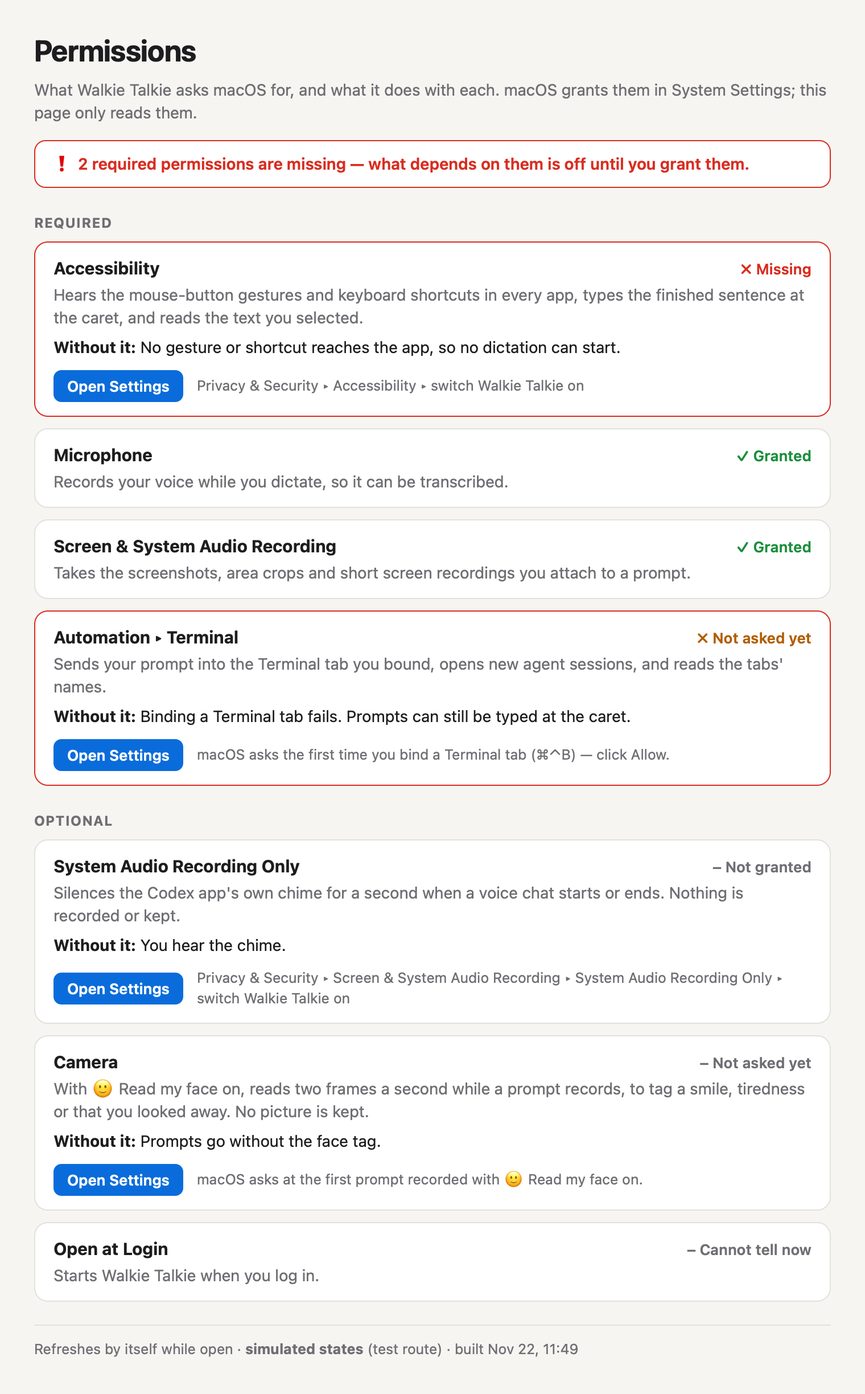
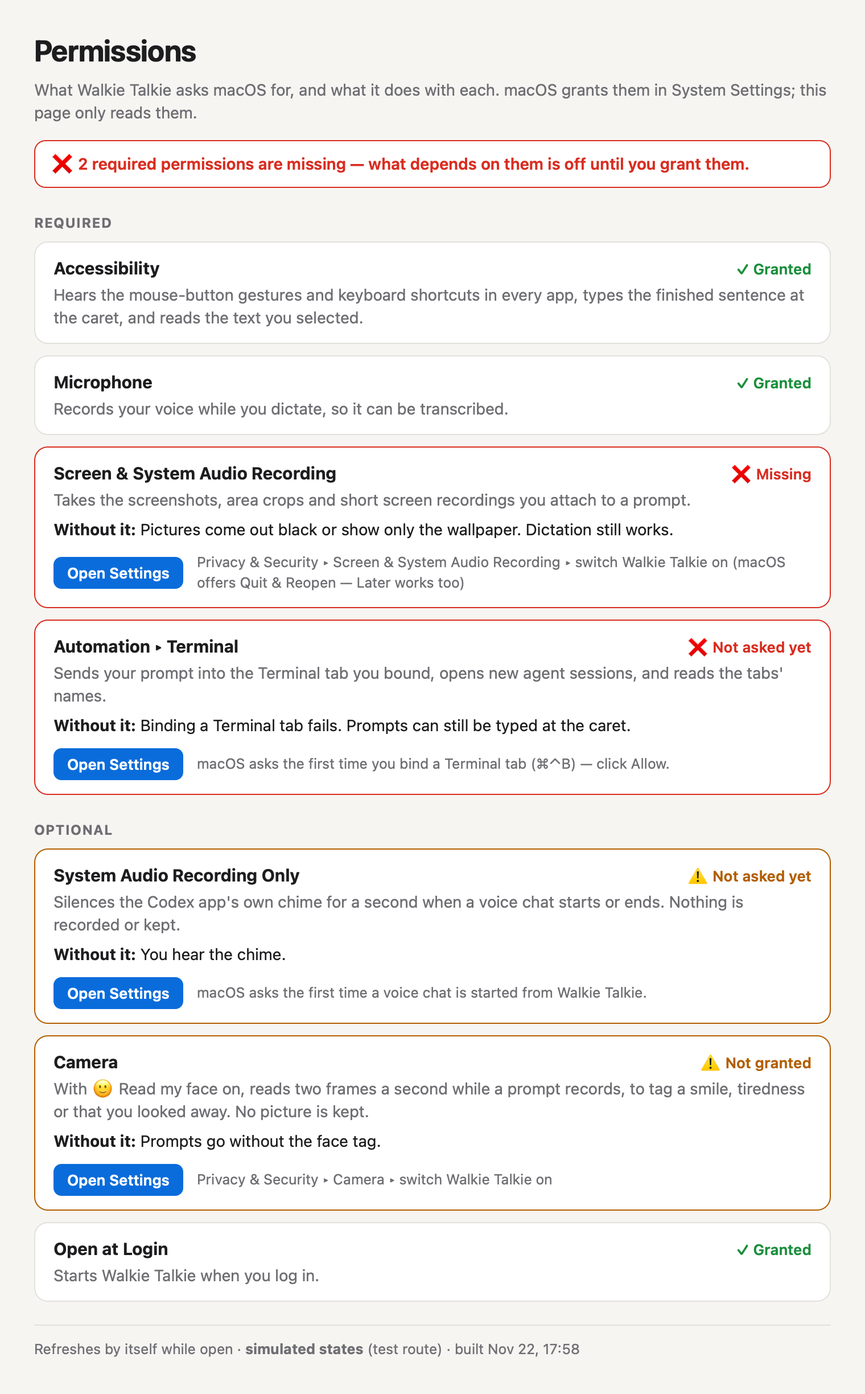
🔐 Permissions: ❌ for a required one that is missing, ⚠ for an optional one not granted
Victor, asked whether Screen Recording and Automation stay required: "arată un ❌ pentru astea 2,
un ⚠ pentru celelalte". The four required ones wear ❌ (page, banner, the row above Quit, the chip
hints — the ❗ is gone); the optional ones wear ⚠ on the page only, never in the menu; an optional
one whose feature is switched off (Camera with Read my face unticked) wears neither.

diff --git a/Sources/WalkieTalkie/Permissions.swift b/Sources/WalkieTalkie/Permissions.swift
@@ -38,7 +38,7 @@ enum Permissions {
         /// Cannot be told right now (Terminal is not running, an API is absent).
         case unknown
 
-        /// What the ❗ counts: everything that is known not to be granted.
+        /// What the ❌ counts: everything that is known not to be granted.
         var lacking: Bool { self == .missing || self == .notAsked }
     }
 
@@ -122,12 +122,52 @@ enum Permissions {
         readings.filter { entry($0.kind).required && $0.state.lacking }.count
     }
 
-    /// The row above Quit: today's `Built …` with everything granted.
+    /// **How a permission is shown: ❌ a required one that is missing, ⚠ an optional one
+    /// that is not granted** (2026-11-22, Victor, asked whether Screen Recording and
+    /// Automation stay required: *"arată un ❌ pentru astea 2, un ⚠ pentru celelalte"*).
+    /// The four required ones stay required. An optional one whose feature is switched
+    /// off in the app (`idle`) is neither: nobody is asking for it.
+    enum Mark: String {
+        case granted
+        /// ❌ — required and known not to be granted.
+        case missing
+        /// ⚠ — optional, not granted, and its feature is on.
+        case warning
+        /// Optional, not granted, its feature switched off: no mark.
+        case idle
+        /// Cannot be told right now.
+        case unknown
+    }
+
+    static func mark(_ reading: Reading, idle: Set<Kind>) -> Mark {
+        switch reading.state {
+        case .granted: return .granted
+        case .unknown: return .unknown
+        case .missing, .notAsked:
+            if entry(reading.kind).required { return .missing }
+            return idle.contains(reading.kind) ? .idle : .warning
+        }
+    }
+
+    /// How many optional permissions wear the ⚠. Never in the menu — the page only:
+    /// the camera is refused on purpose on many Macs, and Open at Login is a choice.
+    static func optionalOff(_ readings: [Reading], idle: Set<Kind>) -> Int {
+        readings.filter { mark($0, idle: idle) == .warning }.count
+    }
+
+    /// Why an idle permission is not needed, as the page says it.
+    static let idleNote: [Kind: String] = [.camera: "🙂 Read my face is off"]
+
+    /// The optional permissions whose feature is switched off in the app right now.
+    static func idleNow() -> Set<Kind> { FaceRead.enabled ? [] : [.camera] }
+
+    /// The row above Quit: today's `Built …` with everything granted. ❌ since
+    /// 2026-11-22 (❗ that morning); only the required ones ever change this row.
     static func rowTitle(missing: Int, build: String) -> String {
         switch missing {
         case ..<1: return "Built \(build)"
-        case 1: return "❗ 1 permission missing"
-        default: return "❗ \(missing) permissions missing"
+        case 1: return "❌ 1 permission missing"
+        default: return "❌ \(missing) permissions missing"
         }
     }
 
@@ -334,12 +374,12 @@ enum Permissions {
 
     /// What the chip says when a feature finds its permission missing.
     static func hintText(_ kind: Kind) -> String {
-        "❗ \(entry(kind).title) permission missing — the menu's ❗ row says why"
+        "❌ \(entry(kind).title) permission missing — the menu's ❌ row says why"
     }
 
     /// The one line at launch for everything refused.
     static func launchHint(_ titles: [String]) -> String {
-        "❗ Missing permission\(titles.count == 1 ? "" : "s"): \(titles.joined(separator: ", ")) — the menu's ❗ row says why"
+        "❌ Missing permission\(titles.count == 1 ? "" : "s"): \(titles.joined(separator: ", ")) — the menu's ❌ row says why"
     }
 
     /// Wired by `AppDelegate`: flash the hint. Called on main.
@@ -382,13 +422,16 @@ enum Permissions {
         let fakes = faked
         let real = Dictionary(uniqueKeysWithValues: catalogue.map { ($0.kind, read($0.kind)) })
         let missing = missingRequired(all)
+        let idle = idleNow()
         return ["permissions": all.map { r -> [String: Any] in
                     let e = entry(r.kind)
                     return ["id": r.kind.rawValue, "title": e.title, "required": e.required,
                             "state": r.state.rawValue, "real": real[r.kind]!.rawValue,
+                            "mark": mark(r, idle: idle).rawValue,
                             "faked": fakes[r.kind] != nil, "settings": e.settings]
                 },
                 "missingRequired": missing,
+                "optionalOff": optionalOff(all, idle: idle),
                 "row": rowTitle(missing: missing, build: StatusItem.buildStamp),
                 "page": PermissionsPage.describe()]
     }
@@ -406,6 +449,7 @@ enum PermissionsPage {
     private static var loaded = false
     private static var timer: Timer?
     private static var shown: [Permissions.Reading] = []
+    private static var shownIdle: Set<Permissions.Kind> = []
 
     /// Up, or brought forward, without activating the app.
     static func show() {
@@ -469,10 +513,12 @@ enum PermissionsPage {
     static func refresh(force: Bool = false) {
         guard let w = web, force || panel?.isVisible == true else { return }
         let now = Permissions.readings()
-        guard force || now != shown else { return }
+        let idle = Permissions.idleNow()
+        guard force || now != shown || idle != shownIdle else { return }
         shown = now
+        shownIdle = idle
         loaded = false
-        w.loadHTMLString(html(now, build: StatusItem.buildStamp), baseURL: nil)
+        w.loadHTMLString(html(now, build: StatusItem.buildStamp, idle: idle), baseURL: nil)
     }
 
     static func describe() -> [String: Any] {
@@ -504,23 +550,25 @@ enum PermissionsPage {
             .replacingOccurrences(of: ">", with: "&gt;").replacingOccurrences(of: "\"", with: "&quot;")
     }
 
-    /// An optional one that is not granted is a fact, not an alarm: grey, no red.
-    private static func badge(_ state: Permissions.State, required: Bool) -> String {
-        if !required, state.lacking {
-            return "<span class=\"badge dim\">– \(state == .notAsked ? "Not asked yet" : "Not granted")</span>"
-        }
-        switch state {
+    /// ❌ red for a required one that is missing, ⚠ amber for an optional one not granted
+    /// (2026-11-22; optional ones were grey `– Not granted` that morning), nothing for an
+    /// optional one whose feature is off.
+    private static func badge(_ r: Permissions.Reading, _ mark: Permissions.Mark) -> String {
+        let notAsked = r.state == .notAsked
+        switch mark {
         case .granted: return "<span class=\"badge ok\">✓ Granted</span>"
-        case .missing: return "<span class=\"badge no\">✗ Missing</span>"
-        case .notAsked: return "<span class=\"badge ask\">✗ Not asked yet</span>"
+        case .missing: return "<span class=\"badge no\">❌ \(notAsked ? "Not asked yet" : "Missing")</span>"
+        case .warning: return "<span class=\"badge warn\">⚠ \(notAsked ? "Not asked yet" : "Not granted")</span>"
+        case .idle: return "<span class=\"badge dim\">– Not needed: \(esc(Permissions.idleNote[r.kind] ?? "its feature is off"))</span>"
         case .unknown: return "<span class=\"badge dim\">– Cannot tell now</span>"
         }
     }
 
-    private static func row(_ r: Permissions.Reading) -> String {
+    private static func row(_ r: Permissions.Reading, idle: Set<Permissions.Kind>) -> String {
         let e = Permissions.entry(r.kind)
+        let mark = Permissions.mark(r, idle: idle)
         var more = ""
-        if r.state.lacking {
+        if mark == .missing || mark == .warning {
             let hint = r.state == .notAsked ? (e.notAskedHint ?? e.path) : e.path
             more = """
             <p class="without"><b>Without it:</b> \(esc(e.without))</p>
@@ -530,23 +578,27 @@ enum PermissionsPage {
             more = "<p class=\"without\">Terminal is not running, so macOS cannot say. Open Terminal and this row updates.</p>"
         }
         return """
-        <div class="row \(e.required ? r.state.rawValue : "optional")" id="\(r.kind.rawValue)">
-          <div class="head"><h3>\(esc(e.title))</h3>\(badge(r.state, required: e.required))</div>
+        <div class="row \(mark.rawValue)" id="\(r.kind.rawValue)">
+          <div class="head"><h3>\(esc(e.title))</h3>\(badge(r, mark))</div>
           <p class="why">\(esc(e.why))</p>\(more)
         </div>
         """
     }
 
-    static func html(_ readings: [Permissions.Reading], build: String) -> String {
+    /// `idle`: the optional permissions whose feature is off (`Permissions.idleNow`).
+    static func html(_ readings: [Permissions.Reading], build: String, idle: Set<Permissions.Kind> = []) -> String {
         let missing = Permissions.missingRequired(readings)
+        let off = Permissions.optionalOff(readings, idle: idle)
+        // The optional ones are said quietly, and only when nothing required is missing.
+        let quiet = off == 0 ? "" : " <span class=\"quiet\">⚠ \(off) optional \(off == 1 ? "one is" : "ones are") off.</span>"
         let summary: String
         switch missing {
-        case 0: summary = "<p class=\"summary good\">✓ Every required permission is granted.</p>"
-        case 1: summary = "<p class=\"summary bad\">❗ 1 required permission is missing — what depends on it is off until you grant it.</p>"
-        default: summary = "<p class=\"summary bad\">❗ \(missing) required permissions are missing — what depends on them is off until you grant them.</p>"
+        case 0: summary = "<p class=\"summary good\">✓ Every required permission is granted.\(quiet)</p>"
+        case 1: summary = "<p class=\"summary bad\">❌ 1 required permission is missing — what depends on it is off until you grant it.</p>"
+        default: summary = "<p class=\"summary bad\">❌ \(missing) required permissions are missing — what depends on them is off until you grant them.</p>"
         }
         func group(_ title: String, _ required: Bool) -> String {
-            let rows = readings.filter { Permissions.entry($0.kind).required == required }.map(row).joined()
+            let rows = readings.filter { Permissions.entry($0.kind).required == required }.map { row($0, idle: idle) }.joined()
             return rows.isEmpty ? "" : "<h2>\(title)</h2>\(rows)"
         }
         let simulated = readings.contains { $0.faked } ? " · <b>simulated states</b> (test route)" : ""
@@ -582,10 +634,12 @@ enum PermissionsPage {
     .summary.bad { border-color:var(--red); color:var(--red); }
     .summary.good { color:var(--green); }
     .row { background:var(--card); border:1px solid var(--line); border-radius:12px; padding:12px 16px; margin-bottom:10px; }
-    .row.missing, .row.not-asked { border-color:var(--red); }
+    .row.missing { border-color:var(--red); }
+    .row.warning { border-color:var(--amber); }
+    .summary .quiet { color:var(--amber); font-weight:500; margin-left:6px; }
     .head { display:flex; align-items:baseline; justify-content:space-between; gap:12px; margin-bottom:3px; }
     .badge { font-weight:600; font-size:13px; white-space:nowrap; }
-    .ok { color:var(--green); } .no { color:var(--red); } .ask { color:var(--amber); } .dim { color:var(--mute); }
+    .ok { color:var(--green); } .no { color:var(--red); } .warn { color:var(--amber); } .dim { color:var(--mute); }
     .why { color:var(--mute); }
     .without { margin-top:6px; }
     .fix { display:flex; align-items:center; gap:12px; margin-top:10px; }
@@ -650,7 +704,7 @@ enum PermissionsPage {
     /// ordered in, so nothing reaches a screen. Main thread; `done` on main.
     static func png(_ readings: [Permissions.Reading], to path: String, width: CGFloat = 760,
                     dark: Bool = false, done: @escaping (Bool) -> Void) {
-        shoots.append(Shoot(html: html(readings, build: StatusItem.buildStamp), width: width, dark: dark,
+        shoots.append(Shoot(html: html(readings, build: StatusItem.buildStamp, idle: Permissions.idleNow()), width: width, dark: dark,
                             path: path, done: done))
     }
 

diff --git a/Tests/WalkieTalkieTests/PermissionsTests.swift b/Tests/WalkieTalkieTests/PermissionsTests.swift
@@ -1,7 +1,7 @@
 import XCTest
 @testable import WalkieTalkie
 
-/// The permissions' pure parts (2026-11-22): what the ❗ counts, the row's
+/// The permissions' pure parts (2026-11-22): what the ❌ counts, the row's
 /// title, the two status codes read, the fakes, and what the page says.
 final class PermissionsTests: XCTestCase {
 
@@ -12,15 +12,15 @@ final class PermissionsTests: XCTestCase {
     func testOnlyRequiredOnesThatAreKnownLackingCount() {
         XCTAssertEqual(Permissions.missingRequired(readings([:])), 0)
         XCTAssertEqual(Permissions.missingRequired(readings([.accessibility: .missing, .automationTerminal: .notAsked])), 2)
-        // Optional ones never raise the ❗; neither does an answer nobody could get.
+        // Optional ones never raise the ❌; neither does an answer nobody could get.
         XCTAssertEqual(Permissions.missingRequired(readings([.camera: .missing, .systemAudio: .notAsked,
                                                              .loginItem: .missing, .automationTerminal: .unknown])), 0)
     }
 
     func testTheRowIsTheBuildStampUntilSomethingIsMissing() {
         XCTAssertEqual(Permissions.rowTitle(missing: 0, build: "Nov 22, 10:12"), "Built Nov 22, 10:12")
-        XCTAssertEqual(Permissions.rowTitle(missing: 1, build: "x"), "❗ 1 permission missing")
-        XCTAssertEqual(Permissions.rowTitle(missing: 3, build: "x"), "❗ 3 permissions missing")
+        XCTAssertEqual(Permissions.rowTitle(missing: 1, build: "x"), "❌ 1 permission missing")
+        XCTAssertEqual(Permissions.rowTitle(missing: 3, build: "x"), "❌ 3 permissions missing")
     }
 
     func testStatusCodes() {
@@ -47,9 +47,9 @@ final class PermissionsTests: XCTestCase {
         XCTAssertTrue(Permissions.hintDue(last: nil, now: t0, every: 60))
         XCTAssertFalse(Permissions.hintDue(last: t0, now: t0.addingTimeInterval(59), every: 60))
         XCTAssertTrue(Permissions.hintDue(last: t0, now: t0.addingTimeInterval(60), every: 60))
-        XCTAssertEqual(Permissions.hintText(.microphone), "❗ Microphone permission missing — the menu's ❗ row says why")
-        XCTAssertEqual(Permissions.launchHint(["Accessibility"]), "❗ Missing permission: Accessibility — the menu's ❗ row says why")
-        XCTAssertTrue(Permissions.launchHint(["Accessibility", "Microphone"]).hasPrefix("❗ Missing permissions: Accessibility, Microphone"))
+        XCTAssertEqual(Permissions.hintText(.microphone), "❌ Microphone permission missing — the menu's ❌ row says why")
+        XCTAssertEqual(Permissions.launchHint(["Accessibility"]), "❌ Missing permission: Accessibility — the menu's ❌ row says why")
+        XCTAssertTrue(Permissions.launchHint(["Accessibility", "Microphone"]).hasPrefix("❌ Missing permissions: Accessibility, Microphone"))
     }
 
     func testEveryEntryExplainsItselfAndLinksToSettings() {
@@ -65,8 +65,10 @@ final class PermissionsTests: XCTestCase {
 
     func testThePageOffersSettingsOnlyForWhatIsLacking() {
         let page = PermissionsPage.html(readings([.accessibility: .missing, .camera: .missing]), build: "Nov 22, 10:12")
-        XCTAssertTrue(page.contains("1 required permission is missing"))
+        XCTAssertTrue(page.contains("❌ 1 required permission is missing"))
         XCTAssertEqual(page.components(separatedBy: "Open Settings").count - 1, 2)
+        XCTAssertTrue(page.contains("❌ Missing"))
+        XCTAssertTrue(page.contains("⚠ Not granted"))
         XCTAssertTrue(page.contains("Privacy_Accessibility"))
         XCTAssertFalse(page.contains("Privacy_Microphone"))
         XCTAssertFalse(page.contains("simulated"))
@@ -74,5 +76,51 @@ final class PermissionsTests: XCTestCase {
         let fine = PermissionsPage.html(readings([:]), build: "b")
         XCTAssertTrue(fine.contains("Every required permission is granted"))
         XCTAssertFalse(fine.contains("Open Settings"))
+    }
+
+    /// 2026-11-22, Victor: *"arată un ❌ pentru astea 2, un ⚠ pentru celelalte"* — the four
+    /// required ones ❌, the optional ones ⚠, and nothing for one whose feature is off.
+    func testRequiredOnesAreMissingOptionalOnesAWarningIdleOnesNeither() {
+        func mark(_ kind: Permissions.Kind, _ state: Permissions.State, idle: Set<Permissions.Kind> = []) -> Permissions.Mark {
+            Permissions.mark(Permissions.Reading(kind: kind, state: state), idle: idle)
+        }
+        for kind in [Permissions.Kind.accessibility, .microphone, .screenRecording, .automationTerminal] {
+            XCTAssertEqual(mark(kind, .missing), .missing, kind.rawValue)
+            XCTAssertEqual(mark(kind, .notAsked), .missing, kind.rawValue)
+            XCTAssertEqual(mark(kind, .granted), .granted)
+        }
+        for kind in [Permissions.Kind.systemAudio, .camera, .loginItem] {
+            XCTAssertEqual(mark(kind, .missing), .warning, kind.rawValue)
+            XCTAssertEqual(mark(kind, .notAsked), .warning, kind.rawValue)
+        }
+        XCTAssertEqual(mark(.automationTerminal, .unknown), .unknown)
+        // 🙂 Read my face unticked: the camera is nobody's business.
+        XCTAssertEqual(mark(.camera, .missing, idle: [.camera]), .idle)
+        XCTAssertEqual(mark(.camera, .granted, idle: [.camera]), .granted)
+        // A required one is never idle, whatever the set says.
+        XCTAssertEqual(mark(.microphone, .missing, idle: [.microphone]), .missing)
+
+        let all = readings([.camera: .missing, .loginItem: .missing, .systemAudio: .notAsked])
+        XCTAssertEqual(Permissions.optionalOff(all, idle: []), 3)
+        XCTAssertEqual(Permissions.optionalOff(all, idle: [.camera]), 2)
+        XCTAssertEqual(Permissions.missingRequired(all), 0, "the menu row never moves for an optional one")
+    }
+
+    func testThePageSaysTheOptionalOnesQuietlyAndAnIdleOneNotAtAll() {
+        let states: [Permissions.Kind: Permissions.State] = [.camera: .missing, .loginItem: .missing]
+        let page = PermissionsPage.html(readings(states), build: "b")
+        XCTAssertTrue(page.contains("Every required permission is granted"))
+        XCTAssertTrue(page.contains("⚠ 2 optional ones are off."))
+        XCTAssertFalse(page.contains("❌"))
+
+        let idle = PermissionsPage.html(readings(states), build: "b", idle: [.camera])
+        XCTAssertTrue(idle.contains("⚠ 1 optional one is off."))
+        XCTAssertTrue(idle.contains("Not needed: 🙂 Read my face is off"))
+        XCTAssertFalse(idle.contains("Privacy_Camera"), "no Open Settings for a permission nobody asks for")
+        XCTAssertEqual(idle.components(separatedBy: "Open Settings").count - 1, 1)
+
+        // With a required one missing the banner is about that alone.
+        let bad = PermissionsPage.html(readings([.microphone: .missing, .camera: .missing]), build: "b")
+        XCTAssertFalse(bad.contains("optional one"))
     }
 }

diff --git a/Sources/WalkieTalkie/StatusItem.swift b/Sources/WalkieTalkie/StatusItem.swift
@@ -2060,9 +2060,11 @@ final class StatusItem: NSObject, NSMenuDelegate {
         Permissions.refreshAutomation { [weak self] in self?.applyPermissionsRow() }
     }
 
-    /// **❗ on the row above Quit while a required permission is missing**
+    /// **❌ on the row above Quit while a required permission is missing**
     /// (2026-11-22, Victor: *"un semn de exclamare dacă n-ai toate permisiunile
-    /// date"*) — `❗ 2 permissions missing`, and the click opens `PermissionsPage`.
+    /// date"*, then *"arată un ❌ pentru astea 2, un ⚠ pentru celelalte"*) —
+    /// `❌ 2 permissions missing`, and the click opens `PermissionsPage`. The
+    /// optional ones' ⚠ lives on the page only: this row never nags for them.
     /// With everything granted it is the plain `Built …` readout it was. Read at
     /// menu open only; no check here can raise a system dialog (`Permissions`).
     private var permissionsMissing = 0

diff --git a/Sources/WalkieTalkie/AppDelegate.swift b/Sources/WalkieTalkie/AppDelegate.swift
@@ -14604,7 +14604,7 @@ extension AppDelegate {
     /// **A missing permission switches its feature off, says so once, and the
     /// feature comes back when the grant does — without a restart.**
     ///
-    /// - The chip names what is missing and points at the menu's ❗ row
+    /// - The chip names what is missing and points at the menu's ❌ row
     ///   (`Permissions.onHint`) — at launch one line for all of them, later one
     ///   per feature that ran into it (rate-limited in `Permissions.hint`).
     /// - **Accessibility is watched**: while it is missing, every 2 s (one call,

diff --git a/.claude/rules/desk-testing.md b/.claude/rules/desk-testing.md
@@ -57,7 +57,7 @@ prefer the local engine.
 | `POST /test/stop-wave {"x"?, "y"?, "capturable"?}` | the stop's wave alone, from the pointer or that global point; `capturable` lets a screenshot see it (2026-11-05); wipes nothing, the halo is wiped from `endDictation` (`WT_HALO_DEMO_WIPE` at a desk) |
 | `POST /test/edge-dust {"edge": "top"｜"right"｜"left" (the ⚡ question's marks, 2026-11-19)｜"bottom" (the caret's pins, 2026-11-22), "seconds"? (4), "sent"? (true), "capturable"?}` | the prompt's edge with no sentence behind it (2026-11-16, `EdgeDust.demo`), then the swell (`sent`) or the quiet end; answers `phase`, `frame` |
 | `POST /test/turn-cost {"transcript"?, "show"?, "amount"?, "rest"?, "x"?, "y"?, "capturable"?, "png"?, "state"?}` | **💸 the turn-cost float** (2026-11-19, `TurnCost`): `transcript` prices that file's last finished turn (`usd`, `subagentUSD`, `responses`, `model`, `seconds`, `text`) and shows nothing unless `show`; otherwise floats `amount`+`rest` from the pointer or x,y; `png` renders the pill to a file instead; `state` reads the floats up (`frame`, `alpha`, `faded`, `hovered`); `watch: "ttysNNN"` (+ `since`, epoch s) arms the real watcher on that tty and answers its `session` |
-| `GET /test/permissions` · `POST /test/permissions {"fake"?: {"<id>": "granted｜missing｜not-asked｜unknown"}｜null, "png"?, "dark"?, "show"?}` | **the permissions, read and faked** (2026-11-22, `Permissions`): answers `permissions[{id, title, required, state, real, faked, settings}]` (ids `accessibility`, `microphone`, `screen-recording`, `automation-terminal`, `system-audio`, `camera`, `login-item`), `missingRequired`, `row` (the title of the row above Quit) and `page {shown, loaded, polling}`. `fake` lays states over the real ones for the row and the page — **nothing is revoked**, never written, gone at relaunch; `fake: null` clears. `png: <path>` draws the page to a file in a window that is never ordered in (`dark: true` = dark theme); `show: true｜false` puts the real window up / takes it down. No check prompts. Without the app: `WT_SHOOT_PERMISSIONS=/tmp/p.png WT_PERMISSIONS_FAKE=accessibility:missing,camera:not-asked [WT_PERMISSIONS_DARK=1] .build/debug/WalkieTalkie` |
+| `GET /test/permissions` · `POST /test/permissions {"fake"?: {"<id>": "granted｜missing｜not-asked｜unknown"}｜null, "png"?, "dark"?, "show"?}` | **the permissions, read and faked** (2026-11-22, `Permissions`): answers `permissions[{id, title, required, state, real, faked, settings}]` (ids `accessibility`, `microphone`, `screen-recording`, `automation-terminal`, `system-audio`, `camera`, `login-item`), `mark` per permission (`granted｜missing` = ❌｜`warning` = ⚠｜`idle`｜`unknown`, 2026-11-22), `missingRequired`, `optionalOff` (how many wear ⚠), `row` (the title of the row above Quit) and `page {shown, loaded, polling}`. `fake` lays states over the real ones for the row and the page — **nothing is revoked**, never written, gone at relaunch; `fake: null` clears. `png: <path>` draws the page to a file in a window that is never ordered in (`dark: true` = dark theme); `show: true｜false` puts the real window up / takes it down. No check prompts. Without the app: `WT_SHOOT_PERMISSIONS=/tmp/p.png WT_PERMISSIONS_FAKE=accessibility:missing,camera:not-asked [WT_PERMISSIONS_DARK=1] [WT_FACE=0｜1] .build/debug/WalkieTalkie` (`WT_FACE=0`: the Camera row idle) |
 | `POST /test/paste-hint` | show the `📋 Re-paste ⌘V` row once (was `Re-paste ⌘⇧P` until 2026-09-28, `On the clipboard ⌘V` for a few hours, `Re-paste ⌘V` since) |
 | `POST /test/engine-menu {"appearance": "light"｜"dark", "seconds"? (3), "x"?, "y"?}` | pop a copy of the **Engine** list (with the 🧾 quota row) in a forced theme at global point x,y (default: top right of the menu-bar screen); closes itself — a submenu cannot be opened from code. `"menu": "main"` pops the whole top-level menu instead (2026-09-28) |
 | `POST /test/quick {"text", "wait"?}` | **a ⚡ quick question** (2026-10-09): the words as if dictated after 🔼 ← at rest — the answer streams into the reply pop-up; `wait: true` answers `{answer, error, firstWordMs, totalMs, model}` (`evals/quick-ask/bench.py app`). **`capturable: true｜false`** (alone or with a question) sets whether every reply pop-up after it shows in a screenshot — **on by default since 2026-10-12** (`.readOnly`, so a Teams/Zoom share shows it; `ReplyPanel.outOfShot` keeps it out of the shutter's own frames); **`close: true`** takes the open one down; **`link: {index, click?, open?}`** (2026-10-10) sends a hover — and with `click` a press and release — to the open pop-up's index-th `(site)` link through `ReplyRoot`'s own handlers, the real mouse untouched, answering `tip`, `rect`, `links` and `opened` (`open: false` answers it without opening the browser); `wait: "all"` waits for the 🔎 and 🧐 answers too; **`googleToo: true`** (2026-11-11) is 🔼 ↓'s question — the answer as ever plus `query`, `url`, `queryMs` from the process beside it (the browser opens only with `open: true`); **`resize: {w, h}`** is a corner drag to that size, top edge kept; **`wheel: n`** (2026-10-23) is n wheel notches over it (+ zooms it toward the whole screen, − back to its first size); **`peek: true`** does nothing; all answer the open pop-up's `frame` and its words as `shown` |

diff --git a/.claude/rules/menu-bar.md b/.claude/rules/menu-bar.md
@@ -596,6 +596,22 @@ pagină, de ce permisiuni mai ai nevoie de dat și de ce ai nevoie de ele"*.
   (`Permissions.hint`, rate-limited per permission: 2 s for the dictation gesture, 60 s for pictures,
   5 min for Automation); at launch one line names everything refused, 2 s in. They replace
   `⚠ grant Accessibility to Walkie Talkie` / `⚠ grant Microphone …`.
+- **❌ a required one that is missing, ⚠ an optional one not granted, nothing for one whose feature
+  is off** (2026-11-22, later the same day — Victor, asked whether Screen Recording and Automation
+  stay "required": *"arată un ❌ pentru astea 2, un ⚠ pentru celelalte"*). Read as: the four required
+  ones stay required and wear ❌ (red; `not-asked` too); System Audio Recording Only, Camera and Open
+  at Login wear ⚠ (amber badge and border, *Without it* + `Open Settings` as before) — they were grey
+  `– Not granted`. `Permissions.mark(_:idle:)` is the one decision (`granted｜missing｜warning｜idle｜unknown`).
+  **The ❗ is gone everywhere: the row above Quit is `❌ N permissions missing`**, the chip hints and
+  the page's banner say ❌ (the headings and older bullets here still say ❗ — same row).
+  **The menu row moves only for required ones** — the Camera is refused on purpose on many Macs and
+  Open at Login is a choice, so the ⚠ lives on the page: per row, and quietly in the banner
+  (`✓ Every required permission is granted. ⚠ 2 optional ones are off.`, only when nothing required
+  is missing). **Idle = its feature is switched off in the app** (`Permissions.idleNow`: Camera while
+  🙂 Read my face is unticked): `– Not needed: 🙂 Read my face is off`, no mark, no button, not counted.
+  A new optional permission with a switch goes into `idleNow` + `idleNote`. The page repaints when the
+  idle set changes too. `docs/readme/permissions-menu-row.png` still shows the ❗ (a menu cannot be
+  photographed without opening it on a screen — re-shoot in the guest).
 - **Guards read `Permissions.real`, never a fake** — a test route must not be able to switch his
   dictation off.
 - **The first click on `Open Settings` only brings the page forward** when another app is in front

diff --git a/README.md b/README.md
@@ -73,7 +73,7 @@ wheel. The menu bar icon lists every action next to the gesture that does it.
 | **Camera** | 🙂 *Read my face*: tags a smile, tiredness or looking away; no picture is kept | no face tag | optional |
 | **Open at Login** | starts the app at login | start it by hand | optional |
 
-The menu's last row before Quit turns into `❗ 2 permissions missing` while a required one is not granted; a click opens the **Permissions** page ([row](docs/readme/permissions-menu-row.png), [page](docs/readme/permissions-page.png)), which says what each is for and opens the right pane of System Settings. With everything granted the page is one link away, at the foot of the Gesture Guide. The app only ever reads these states; macOS asks at launch (the first three) and at the first use (the rest). A missing permission switches off only what needs it, the chip says which one, and the feature is back when you grant it — at once for Accessibility, Screen Recording and Automation; the Microphone needs the Quit & Reopen macOS offers.
+The menu's last row before Quit turns into `❌ 2 permissions missing` while a required one is not granted; a click opens the **Permissions** page ([row](docs/readme/permissions-menu-row.png), [page](docs/readme/permissions-page.png)), which says what each is for and opens the right pane of System Settings. On the page a required permission that is missing wears ❌, an optional one that is not granted ⚠ — and nothing at all while its feature is switched off (the Camera with 🙂 *Read my face* unticked); the optional ones never change the menu. With everything granted the page is one link away, at the foot of the Gesture Guide. The app only ever reads these states; macOS asks at launch (the first three) and at the first use (the rest). A missing permission switches off only what needs it, the chip says which one, and the feature is back when you grant it — at once for Accessibility, Screen Recording and Automation; the Microphone needs the Quit & Reopen macOS offers.
 
 👉 Every state the overlay can be in, photographed: [docs/overlay-states.html](docs/overlay-states.html)
 
